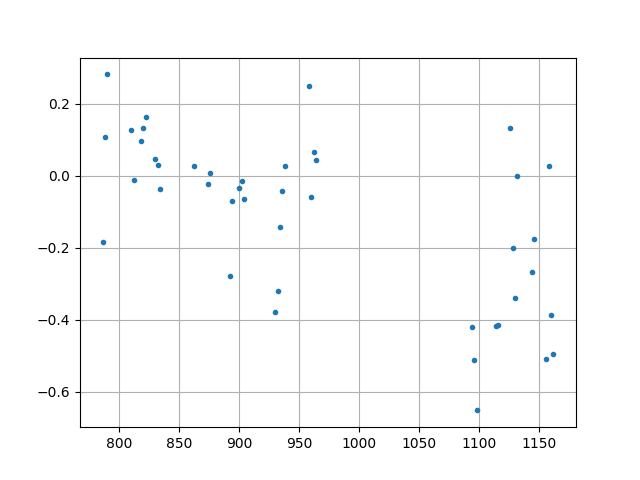
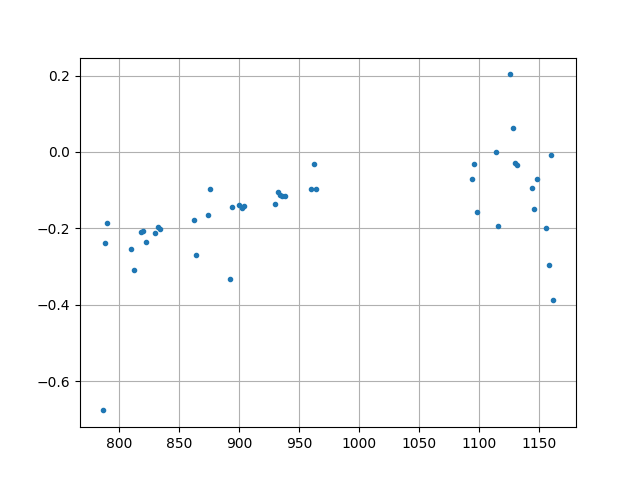
Backup

diff --git a/src/main.py b/src/main.py
@@ -62,7 +62,7 @@ def main(cl_param):
         Start the iteration using the chosen microwindows
         '''
 
-
+        '''
         inp.FORWARD = True
 
         tt = [0.2, 1.0, 3.0, 4.0, 6.0]
@@ -99,8 +99,8 @@ def main(cl_param):
         rt_best = np.interp(slope_ftir_av, np.array(slope_lbldis), rt_y)
         inp.MCP[2] = rt_best / ((fact-1)*fi+1)
         inp.MCP[3] = rt_best * fact / ((fact-1)*fi+1)
-
-        #inp.MCP = [0.0, 1.110, 7.0, 29.0]
+        '''
+        inp.MCP = [0.01, 1.110, 7.0, 29.0]
         inp.FORWARD = False
         inp.MCP_APRIORI = inp.MCP[:]
         inversion.retrieve()

diff --git a/src/aux2.py b/src/aux2.py
@@ -56,7 +56,7 @@ O3_PROFILE = None
 Stepsize for the calculation of the derivative
 '''
 STEPSIZE_TAU = 1e-3#5e-4
-STEPSIZE_RADIUS = 1.0#1e-2
+STEPSIZE_RADIUS = 1e-2
 INCREASE_LM = 4.0
 DECREASE_LM = 2.0
 #STEPSIZE_TT = 1e-3
